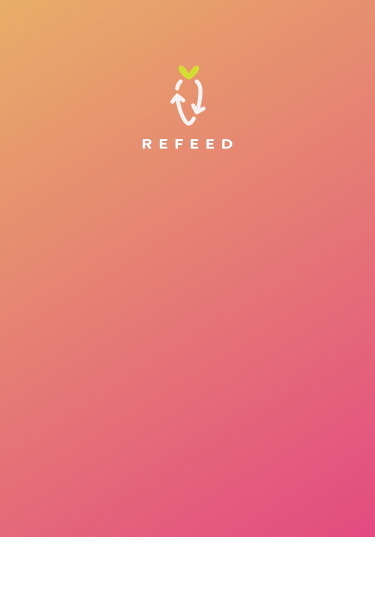
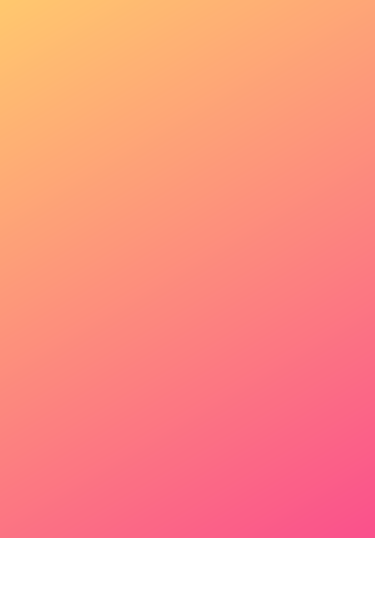
Onboarding Screens Done

Changed region(s): [[0.0, 0.0, 0.4107, 0.1495], [0.3813, 0.0897, 0.5573, 0.2691], [0.5573, 0.2093, 0.616, 0.2691]]

diff --git a/MyApp/containers/SplashScreen.js b/MyApp/containers/SplashScreen.js
@@ -1,41 +1,49 @@
 import React, { Component } from 'react';
-import ImageSlider from 'react-native-image-slider';
-import { 
-  Text,
-  View,  
-  Image,
-  TouchableOpacity,
+//import ImageSlider from 'react-native-image-slider';
+import {
+    Text,
+    View,
+    Image,
+    TouchableOpacity,
 } from 'react-native';
 import styles from '../Styles/SplashStyles';
 import { Images } from '../DevTheme'
 
 export default class SplashScreen extends Component {
-    constructor () {
-        super ()
+    constructor() {
+        super()
         this.state = {
             position: 0,
             interval: null
         }
     }
     static navigationOptions = {
-        header:<Text style={{display:'none'}}></Text>,
-            headerStyle: {
-        backgroundColor: '#dd8d6c'
+        header: <Text style={{ display: 'none' }}></Text>,
+        headerStyle: {
+            backgroundColor: '#dd8d6c'
         }
     }
 
-    componentWillMount () {
-        this.setState({ interval: setInterval(()=>{
-            this.setState({ position: this.state.position === 2 ? 0 : this.state.position+1});
-        }, 2000) });
+    componentWillMount() {
+        this.setState({
+            interval: setInterval(() => {
+                this.setState({ position: this.state.position === 2 ? 0 : this.state.position + 1 });
+            }, 2000)
+        });
     }
-    componentWillUnmount () {
+    componentWillUnmount() {
         clearInterval(this.state.interval);
     }
-    render () {
+    render() {
         const { navigate } = this.props.navigation
         return (
-            <View style={styles.container}>
+            <View style = {{width : '100%', height :'100%'}}>
+                <Image source={Images.signbg} style={styles.container}>
+                    <View style={{ flex: 1, width: '100%', justifyContent: 'center', alignItems: 'center' }}>
+                        <Image source = {Images.logoBig} style = {styles.logoBig} />
+                        <Text style = {styles.info}>WE BELIEVE IN A FULL AMERICA</Text>
+                    </View>
+                    {/*
                 <ImageSlider 
                     images={[
                         'https://firebasestorage.googleapis.com/v0/b/fir-test-a3cb2.appspot.com/o/Slide1.png?alt=media&token=b759b7dd-3dc5-488c-8469-2ed78237dfe7',
@@ -53,17 +61,19 @@ export default class SplashScreen extends Component {
                     <TouchableOpacity style={styles.google}>
                         <Image source={Images.google} />
                     </TouchableOpacity>
+                */}
                     <View style={styles.login}>
-                        <TouchableOpacity onPress={() => navigate('SignupScreen')} style={styles.button}>
+                        <TouchableOpacity onPress={() => navigate('OnboardingScreen')} style={styles.button}>
                             <Image source={Images.SINGUP1} />
                         </TouchableOpacity>
-                        <Image source={Images.devide} style={{marginBottom: 1}}/>
+                        <Image source={Images.devide} style={{ marginBottom: 1 }} />
                         <TouchableOpacity style={styles.button}>
                             <Image source={Images.LOGIN} />
                         </TouchableOpacity>
                     </View>
+                </Image>
             </View>
-          
+
         );
     }
 }

diff --git a/MyApp/containers/OnboardingScreen.js b/MyApp/containers/OnboardingScreen.js
@@ -1,0 +1,76 @@
+import React, { Component } from 'react';
+//import ImageSlider from 'react-native-image-slider';
+import {
+    Text,
+    View,
+    Image,
+    TouchableOpacity,
+} from 'react-native';
+import styles from '../Styles/SplashStyles';
+import { Images } from '../DevTheme'
+import { NavigationActions } from 'react-navigation'
+import Icon from 'react-native-vector-icons/FontAwesome'
+
+export default class OnboardingScreen extends Component {
+    constructor() {
+        super()
+        this.state = {
+            position: 0,
+            interval: null
+        }
+    }
+    static navigationOptions = {
+        header: <Text style={{ display: 'none' }}></Text>,
+        headerStyle: {
+            backgroundColor: '#dd8d6c'
+        }
+    }
+
+    componentWillMount() {
+        this.setState({
+            interval: setInterval(() => {
+                this.setState({ position: this.state.position === 2 ? 0 : this.state.position + 1 });
+            }, 2000)
+        });
+    }
+    componentWillUnmount() {
+        clearInterval(this.state.interval);
+    }
+    render() {
+        const { navigate } = this.props.navigation
+        return (
+            <View style={{ width: '100%', height: '100%', flex: 1 }}>
+                <TouchableOpacity onPress={() => this.props.navigation.dispatch(NavigationActions.back())} style={{ zIndex: 1 }}>
+                    <Image source={Images.backIcon} style={styles.back_btn} />
+                </TouchableOpacity>
+                <Image source={Images.signbg} style={styles.container}>
+                    <View style={{ flex: 1, width: '100%', justifyContent: 'center', alignItems: 'center' }}>
+
+
+                        <Image source={Images.logoBig} style={styles.logoBig} />
+                        <Text style={styles.info}>WE BELIEVE IN A FULL AMERICA</Text>
+                    </View>
+                </Image>
+                <View style = {{position : 'absolute', bottom : 0, width : '100%'}}>
+                    <View style = {styles.option_view} >
+                        <Image source = {Images.tipIcon} style = {styles.tipIcon} />
+                        <Text style={styles.option_text}>Sign Up As a Business</Text>
+                        <Icon name = "chevron-right" size = {12 } color = "#666666" style = {styles.options_next}/>
+                    </View>
+                    <View style = {styles.option_view} >
+                        <Image source = {Images.tipIcon} style = {styles.tipIcon} />
+                        <Text style={styles.option_text}>Sign Up As a Individual</Text>
+                        <Icon name = "chevron-right" size = {12 } color = "#666666" style = {styles.options_next}/>
+                    </View>
+                    <View style = {styles.option_view} >
+                        <Image source = {Images.tipIcon} style = {styles.tipIcon} />
+                        <Text style={styles.option_text}>Sign Up As a Team Member</Text>
+                        <Icon name = "chevron-right" size = {12 } color = "#666666" style = {styles.options_next}/>
+                    </View>
+                </View>
+                
+            </View>
+
+        );
+    }
+}

diff --git a/MyApp/Styles/SplashStyles.js b/MyApp/Styles/SplashStyles.js
@@ -3,22 +3,83 @@ import { StyleSheet } from 'react-native'
 export default StyleSheet.create({
     container: {
         flex: 1,
-        backgroundColor: 'white'
+        width: '100%'
+        // backgroundColor: 'white'
     },
-  facebook: {
-      marginTop: 56,
-      alignSelf: 'center'
-  },
-  google: {
-      marginTop: 16,
-    alignSelf: 'center'
-  },
-    login: {
+    facebook: {
+        marginTop: 56,
+        alignSelf: 'center'
+    },
+    google: {
+        marginTop: 16,
+        alignSelf: 'center'
+    },
+    /*login: {
         flexDirection: 'row',
         justifyContent: 'space-around',
         marginTop: 25
+    },*/
+    login: {
+        alignItems: 'center',
+        flexDirection: 'row',
+        justifyContent: 'space-around',
+        height: 64
     },
     button: {
         marginVertical: 8
+    },
+    logoBig: {
+        width: 182,
+        height: 145,
+        position: 'absolute',
+        top: 150
+    },
+
+    info: {
+        backgroundColor: 'transparent',
+        fontSize: 15,
+        color: 'white',
+        position: 'absolute',
+        bottom: 40
+    },
+
+    back_btn: {
+        width: 16,
+        height: 16,
+        position : 'absolute',
+        top : 40,
+        left :20,
+    },
+
+    option_view : {
+        width : "100%",
+        height : 70,
+        flexDirection : "row",
+        backgroundColor : "white",
+        borderBottomColor : "rgba(0, 0, 0, 0.09)",
+        borderBottomWidth : 1,
+        justifyContent : 'center',
+        alignItems : 'center'
+    },
+
+    options_next : {
+        position : 'absolute',
+        right : 20
+    },
+
+    option_text: {
+        position : 'absolute',
+        left : 80,
+        backgroundColor: 'transparent',
+        fontSize: 16,
+        color: '#666666'
+    },
+
+    tipIcon : {
+        width : 20,
+        height : 20,
+        position : 'absolute',
+        left : 40
     }
+
 })

diff --git a/MyApp/AppNavigation.js b/MyApp/AppNavigation.js
@@ -3,6 +3,7 @@ import LaunchScreen from './containers/LaunchScreen'
 import MainScreen from './containers/MessageScreen'
 import SplashScreen from './containers/SplashScreen'
 import SignupScreen from './containers/SignupScreen'
+import OnboardingScreen from './containers/OnboardingScreen'
 import BusinessScreen from './containers/BusinessScreen'
 import SideMenu from './containers/SideMenu'
 import FindDonation from './containers/FindDonation'
@@ -21,10 +22,11 @@ const PrimaryNav = StackNavigator({
   SideMenu: { screen: SideMenu },
   SelectedItems: { screen: SelectedItems },
   OperationInformationScreen: { screen: OperationInformationScreen },
-  AddItemsModal: { screen: AddItemsModal }
+  AddItemsModal: { screen: AddItemsModal },
+  OnboardingScreen: { screen: OnboardingScreen }
 }, {
 
-    initialRouteName: 'SignupScreen',
+    initialRouteName: 'OnboardingScreen',
     heaerStyle: styles.header
   })
 export default PrimaryNav

diff --git a/MyApp/DevTheme/Images.js b/MyApp/DevTheme/Images.js
@@ -86,7 +86,9 @@ const images = {
   unchecked: require('../Images/unchecked.png'),
   trashIcon : require('../Images/trash_icon.png'),
   cameraIcon : require('../Images/camera.png'),
-  plusIcon : require('../Images/plusIcon.png')
+  plusIcon : require('../Images/plusIcon.png'),
+  logoBig : require('../Images/logo_big.png'),
+  tipIcon : require('../Images/tipIcon.png')
 
 
 
